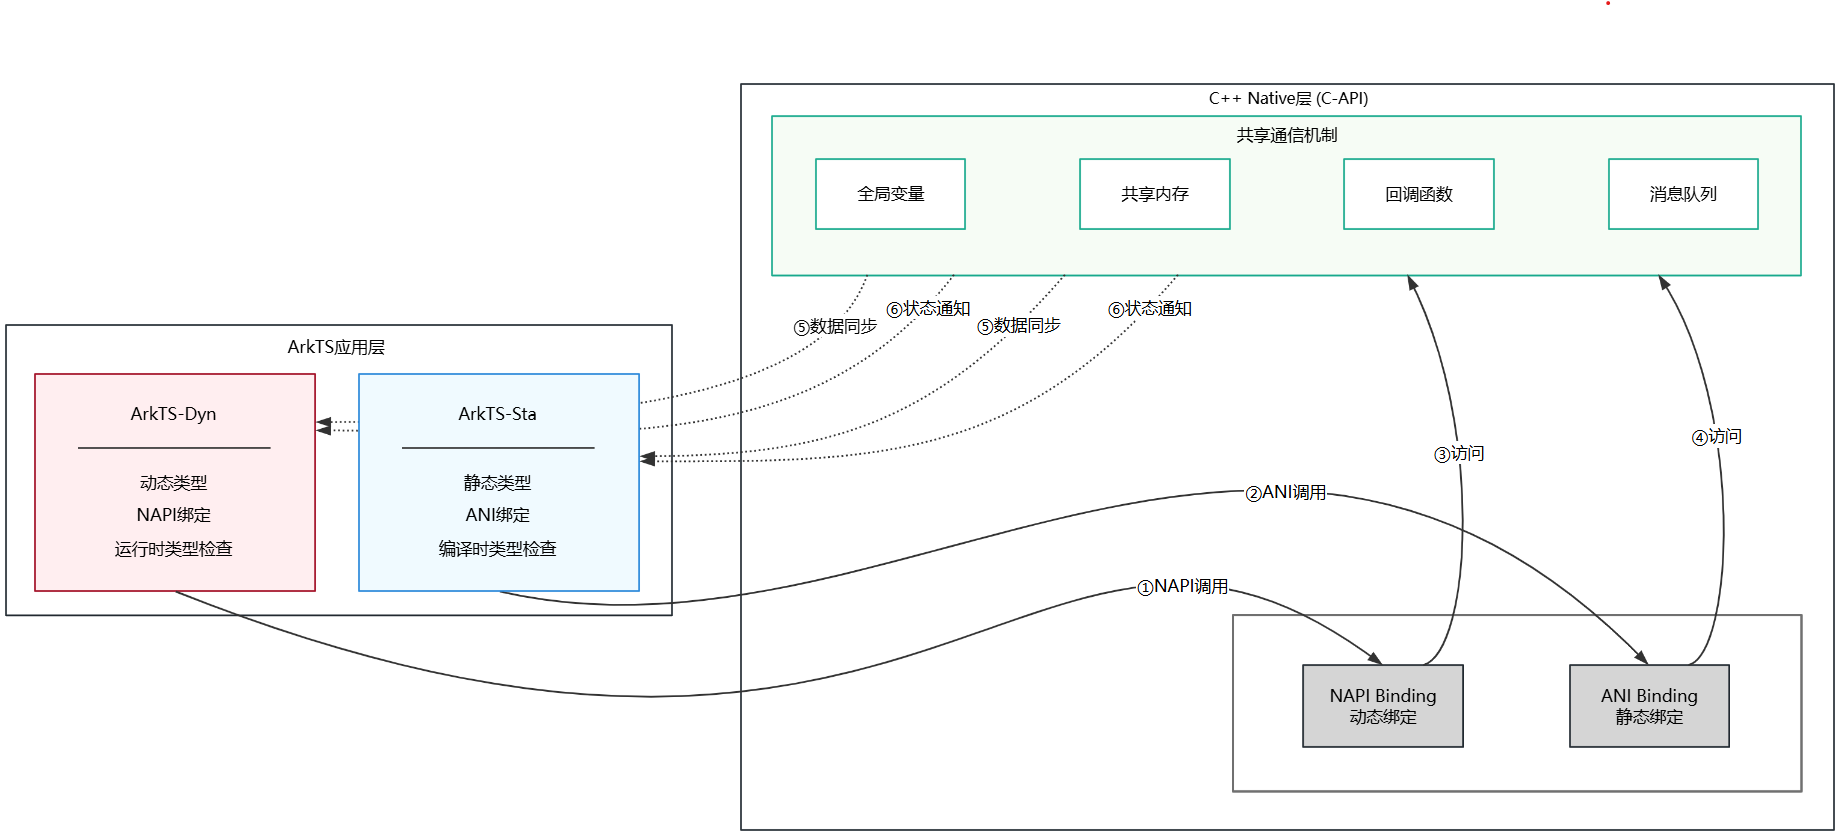
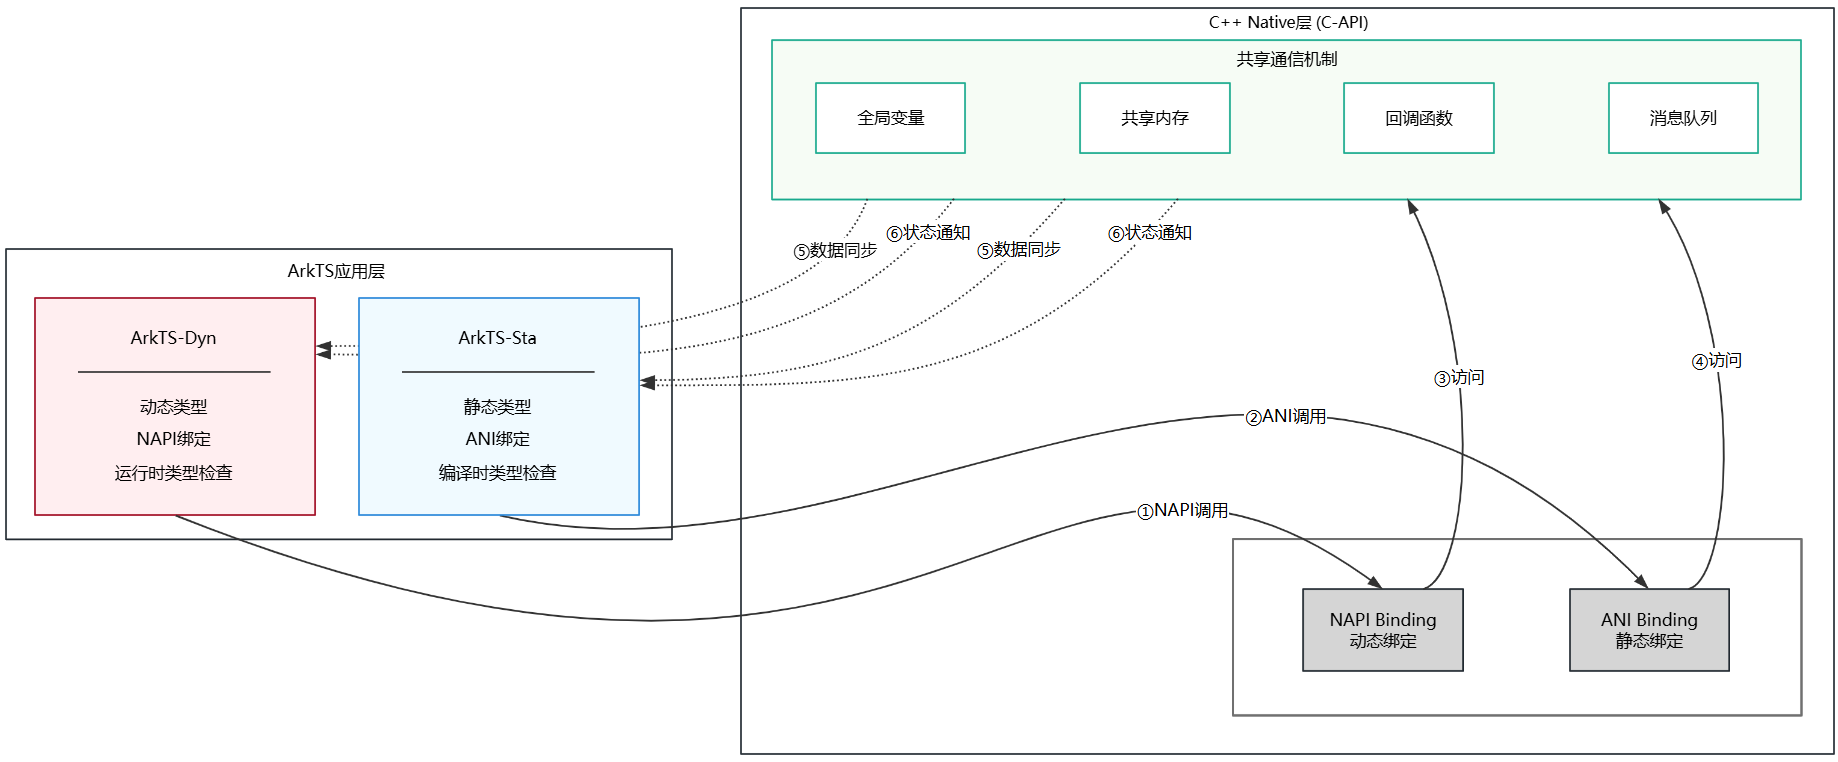
ESValue相关文档修改

diff --git a/zh-cn/application-dev/quick-start/arkts-sta-transformation-case.md b/zh-cn/application-dev/quick-start/arkts-sta-transformation-case.md
@@ -1,5 +1,269 @@
 # ArkTS静态类型改造案例
 
+## 通过ESValue实现静态调用动态
+
+在静态化改造过程中，常会遇到将动态类型对象传入静态环境使用，或在静态环境中执行动态类型操作的情况。针对这类ArkTS-Sta调用ArkTS-Dyn的互操作场景，推荐开发者显式使用ESValue进行“有缝调用”，该方式相较于无缝操作更加稳定且安全。
+
+ESValue是一个动态类型封装类，专用于在静态类型的ArkTS-Sta中操作ArkTS-Dyn动态数据。作为跨域交互的桥接层，它将动态侧的对象包装为可在静态侧安全操作的容器，并提供类型安全的访问接口。通过ESValue，开发者可以执行加载动态模块、读写属性、调用方法及实例化类等操作，同时配合类型判断机制来确保运行时的安全性。
+
+其核心价值在于，为静态类型环境与动态世界交互提供了一套标准化的API。所有动态数据均需通过`wrap`方法封装为ESValue对象；操作时需显式调用`getProperty`、`invoke`等接口，由于返回值同样是ESValue包装对象，最终还需通过`unwrap`或特定类型方法进行解包。这种设计将类型检查从编译期推迟到了运行期，非常适合处理不确定类型的动态数据。
+
+### ESValue支持的操作
+
+| ESValue支持的操作 | 操作功能说明 |
+| :--- | :--- |
+| **对动态对象的包装** | 将数据类型包装为ESValue对象。支持：`boolean`、`string`、`number`、`bigint`、`byte`、`short`、`int`、`long`、`float`、`double` 以及动态引用对象。 |
+| **对动态对象的判断** | 判断并获取包装的具体数据类型。支持：`boolean`、`string`、`number`、`bigint`、`undefined`、`null`、`staticObject`、`ECMAObject`、`object`、`function`、`promise`。 |
+| **对动态对象的解包** | 将ESValue还原为原始数据或对象。支持：`boolean`、`string`、`number`、`bigint`、`undefined`、`null`、`staticObject`、`promise`。 |
+| **对动态对象的比较** | 比较两个ESValue包装的对象是否相同，支持相等与严格相等判断。 |
+| **属性访问与设置** | 检查、获取或设置动态对象的属性。支持获取并遍历对象的 `key`、`value` 及 `entry`，返回结果同样为ESValue包装对象。 |
+| **实例化与方法调用** | 支持对包装的动态对象进行实例化操作，以及对包装的动态方法进行调用与执行。 |
+| **其它接口** | 提供创建动态空对象/空数组、加载动态文件与SDK、以及获取动态全局变量等辅助功能。 |
+
+对于更具体的ESValue接口使用方法以及示例见：[ESValue接口文档](https://gitcode.com/openharmony/arkcompiler_runtime_core/blob/master/static_core/plugins/ets/runtime/interop_js/docs/ESValueApi_cn.md)。
+
+### ESValue使用示例
+
+**利用ESValue实例化动态类并操作属性和方法**
+
+以下示例演示如何使用ESValue在ArkTS-Sta中实例化ArkTS-Dyn定义的类，并对其属性进行读写和调用其方法。
+
+```ts
+//  ========== 动态文件DynamicModule.ets ==========
+export class Person {
+    name: string;
+    age: number;
+    
+    constructor(name: string, age: number) {
+        this.name = name;
+        this.age = age;
+    }
+    
+    greet(): string {
+        return `Hello, I'm ${this.name}, ${this.age} years old.`;
+    }
+    
+    setAge(newAge: number): void {
+        this.age = newAge;
+    }
+    
+    getAge(): number {
+        return this.age;
+    }
+}
+
+//  ========== 静态文件StaticModule.ets ==========
+'use static'
+
+function demoPersonClass(): void {
+    // 加载动态模块，入参为动态模块的路径
+    let module = ESValue.load('dynhar/src/main/ets/components/DynamicModule');  
+    // 获取Person类
+    let PersonClass = module.getProperty('Person');
+    
+    // 实例化Person类，传入构造函数的参数需要为ESValue
+    let person = PersonClass.instantiate(
+        ESValue.wrapString('Alice'),
+        ESValue.wrapNumber(25)
+    );
+    
+    // 获取属性值
+    let name = person.getProperty('name');
+    let age = person.getProperty('age');
+    console.info(`Name: ${name.toString()}`);  // Name: Alice
+    console.info(`Age: ${age.toNumber()}`);     // Age: 25
+    
+    // 设置属性值
+    person.setProperty('name', ESValue.wrapString('Bob'));
+    person.setProperty('age', ESValue.wrapNumber(30));
+    
+    // 验证属性修改
+    let updatedName = person.getProperty('name');
+    console.info(`Updated Name: ${updatedName.toString()}`);  // Updated Name: Bob
+    
+    // 调用无参方法
+    let greetResult = person.invokeMethod('greet');
+    console.info(greetResult.toString());  // Hello, I'm Bob, 30 years old.
+    
+    // 调用带参数方法
+    person.invokeMethod('setAge', ESValue.wrapNumber(35));
+    let newAge = person.invokeMethod('getAge');
+    console.info(`New Age: ${newAge.toNumber()}`);  // New Age: 35
+    
+    // 检查属性是否存在
+    let hasName = person.hasProperty('name');      // true
+    let hasSalary = person.hasProperty('salary');   // false
+    
+    // 检查实例类型
+    let isInstanceOf = person.instanceOf(PersonClass);  // true
+    console.info(`Is instance of Person: ${isInstanceOf}`);
+}
+```
+
+**利用ESValue处理异步Promise**
+
+以下示例演示如何使用ESValue在ArkTS-Sta中处理ArkTS-Dyn中的Promise操作。
+
+```ts
+//  ========== 动态文件 DynamicModule.ets ==========
+export function fetchUserData(id: number): Promise<{ name: string; score: number }> {
+    return new Promise((resolve) => {
+        setTimeout(() => {
+            resolve({ name: `User${id}`, score: id * 100 });
+        }, 100);
+    });
+}
+
+export function processItems(items: number[]): Promise<number[]> {
+    return Promise.all(items.map(x => Promise.resolve(x * 2)));
+}
+
+//  ========== 静态文件 StaticModule.ets ==========
+'use static'
+
+async function handleAsyncOperations(): Promise<void> {
+    let module = ESValue.load('har/src/main/ets/components/DynamicModule');
+    
+    // 调用返回Promise的函数
+    let fetchFunc = module.getProperty('fetchUserData');
+    let promiseVal = fetchFunc.invoke(ESValue.wrapNumber(42));
+    
+    // 检查是否为Promise
+    if (promiseVal.isPromise()) {
+        // 等待Promise完成
+        let result = await promiseVal.toPromise();
+        let name = result.getProperty('name').toString();
+        let score = result.getProperty('score').toNumber();
+        console.info(`User: ${name}, Score: ${score}`);
+    }
+    
+    // 处理Promise.all场景
+    let processFunc = module.getProperty('processItems');
+    let itemsArr = ESValue.instantiateEmptyArray();
+    itemsArr.invokeMethod('push', ESValue.wrapNumber(1));
+    itemsArr.invokeMethod('push', ESValue.wrapNumber(2));
+    itemsArr.invokeMethod('push', ESValue.wrapNumber(3));
+    
+    let allPromise = processFunc.invoke(itemsArr);
+    let allResult = await allPromise.toPromise();
+    
+    // 遍历结果数组
+    for (const item of allResult) {
+        console.info(`Processed: ${item.toNumber()}`);
+    }
+}
+```
+
+## 通过STValue实现动态调用静态
+
+在ArkTS应用的静态化改造中，同样会面临将静态对象跨域传递至动态环境，或在ArkTS-Dyn中执行静态操作的需求。面对此类ArkTS-Dyn调用ArkTS-Sta的互操作场景，强烈建议开发者采用显式引入STValue的有缝调用模式，以获取比隐式无缝操作更高的系统稳定性和安全边界。
+
+作为与ESValue对标的封装类，STValue专门提供了一套在ArkTS-Dyn环境中操作ArkTS-Sta静态数据的标准化接口。STValue通过持有对ArkTS-Sta对象的底层引用，构建起跨运行时的安全桥梁，从而确保ArkTS-Dyn能够安全可靠地访问并操控静态运行环境中的核心数据。
+
+### STValue支持的操作
+
+| STValue支持的操作| 操作功能说明 |
+| :--- | :--- |
+| **对静态对象的包装** | 提供`wrap`接口将ArkTS-Dyn值转换为ArkTS-Sta值并封装。支持：`boolean`、`char`、`byte`、`short`、`int`、`long`、`float`、`double`、`number`、`string`、`bigint` 以及静态引用对象。 |
+| **对静态对象的判断** | 提供`check`接口检查包装类型（支持`string`、`bigint`、`undefined`、`null`），并提供`objectInstanceOf`接口判断对象是否属于指定类型。 |
+| **对静态对象的解包** | 提供`unwrap`接口将STValue反解为ArkTS-Dyn值。支持解包获取 `boolean`、`number`、`string`、`bigint` 基本类型值及引用类型。 |
+| **对静态对象的比较** | 提供比较接口，支持判断两个STValue包装的静态对象（包括基本类型和引用类型）是否相等。 |
+| **属性访问与设置** | 通过`accessor`接口支持获取和设置类静态字段、实例对象属性、固定数组元素、动态数组元素以及命名空间变量。 |
+| **实例化与方法调用** | 通过`instance`接口提供类实例化操作（支持查找类、命名空间、枚举及获取父类）；通过`invoke`接口提供方法动态调用（支持实例方法、类静态方法和命名空间函数）。 |
+| **其它接口** | 提供查找类和命名空间、动态数组的 length/push/pop 操作、获取对象类型信息和固定数组长度等功能。配合SType类型枚举和Mangling签名规则实现跨运行时的类型安全调用。 |
+
+对于更具体的STValue接口使用方法以及示例见：[STValue接口文档](https://gitcode.com/openharmony/arkcompiler_runtime_core/blob/master/static_core/plugins/ets/runtime/interop_js/docs/stvalue_cn.md)。
+
+### STValue使用示例
+
+以下示例演示如何使用STValue在ArkTS-Dyn中实例化ArkTS-Sta定义的类，并对其属性进行读写和调用其方法。
+```typescript
+//  ========== 静态文件StaticModule.ets ==========
+export class Counter {
+    name: string;
+    count: int = 0;
+
+    constructor(name: string) {
+        this.name = name;
+    }
+
+    static increment(value: int): int {
+        return value + 1;
+    }
+
+    static calculateSum(a: int, b: int): int {
+        return a + b;
+    }
+
+    getCount(): int {
+        return this.count;
+    }
+
+    reset(): void {
+        this.count = 0;
+    }
+}
+
+//  ========== 动态文件DynamicModule.ets ==========
+import {STValue, SType} from "[email redacted]"; // STValue配置可参考STValue接口文档
+
+// 查找静态类定义，传入对应静态文件的路径
+let counterCls = STValue.findClass('stahar.src.main.ets.components.StaticModule.Counter'); 
+
+// 实例化静态对象
+// 使用构造函数: constructor(name: string)
+// 签名'C{std.core.String}:'表示传入String参数，无返回值
+let counterObj = counterCls.classInstantiate('C{std.core.String}:', [
+    STValue.wrapString('MyCounter')
+]);
+
+// 获取对象的属性值,objectGetProperty获取的是STValue包装后的值，所以需要进行unwrap操作进行解包
+let name = counterObj.objectGetProperty('name', SType.REFERENCE).unwrapToString();
+let count = counterObj.objectGetProperty('count', SType.INT).unwrapToNumber();
+
+// 调用静态方法increment修改count值
+// 静态方法: static increment(value: int): int
+// 签名'i:i'表示传入int参数，返回int
+let incrementResult = counterCls.classInvokeStaticMethod('increment', 'i:i', [
+    STValue.wrapInt(count)
+]);
+let newCount = incrementResult.unwrapToNumber();
+
+// 重新设置实例对象的属性值
+counterObj.objectSetProperty('count', STValue.wrapInt(newCount), SType.INT);
+
+// 再次获取属性值验证设置结果
+let verifyCount = counterObj.objectGetProperty('count', SType.INT).unwrapToNumber();
+
+// 再次调用静态方法increment增加count
+let incrementResult2 = counterCls.classInvokeStaticMethod('increment', 'i:i', [
+    STValue.wrapInt(verifyCount)
+]);
+let newCount2 = incrementResult2.unwrapToNumber();
+console.info(`  原值: ${verifyCount}, 新值: ${newCount2}`);  // 输出: 原值: 1, 新值: 2
+
+// 设置新的count值
+counterObj.objectSetProperty('count', STValue.wrapInt(newCount2), SType.INT);
+
+// 获取最终属性值并调用静态方法calculateSum计算总和
+let finalCount = counterObj.objectGetProperty('count', SType.INT).unwrapToNumber();
+let baseValue = 10;
+
+// 静态方法: static calculateSum(a: int, b: int): int
+// 签名'ii:i'表示传入两个int参数，返回int
+let sumResult = counterCls.classInvokeStaticMethod('calculateSum', 'ii:i', [
+    STValue.wrapInt(finalCount),
+    STValue.wrapInt(baseValue)
+]);
+let totalSum = sumResult.unwrapToNumber();
+
+let finalName = counterObj.objectGetProperty('name', SType.REFERENCE).unwrapToString();
+let finalCountValue = counterObj.objectGetProperty('count', SType.INT).unwrapToNumber();
+console.info(`对象属性: name=${finalName}, count=${finalCountValue}`);  // 输出: name=MyCounter, count=2
+console.info(`计算结果: sum=${totalSum}`);  // 输出: sum=12
+```
+
+
 ## 大批量动态类型对象高效地转换为静态类型对象
 
 **场景描述**
@@ -122,9 +386,6 @@ function objectAssign(from: string, to: ToType): void {
 }
 ```
 
-## ESValue基础用法
-详见：[ESValue的基础用法](https://gitcode.com/openharmony/arkcompiler_runtime_core/blob/master/static_core/plugins/ets/runtime/interop_js/docs/ESValueApi_cn.md)
-
 ## 动态enum传入静态中如何使用
 ```TS
 // ========== 动态文件 DynamicModule.ets ==========
@@ -156,19 +417,20 @@ function handleProcessStatus(statusValue: Any): void {
   // 4. 使用switch进行分支处理
   switch (statusValue) {
     case idleStatus:
-      console.log("当前状态：空闲");
+      console.info("当前状态：空闲");
       break;
     case runningStatus:
-      console.log("当前状态：运行中");
+      console.info("当前状态：运行中");
       break;
     default:
-      console.log("未知状态");
+      console.info("未知状态");
       break;
   }
 }
 
 // 动态中使用静态enum，正常import使用即可。
 ```
+
 ## 动态Record传入静态中如何使用
 动态语言中Record是类型，静态语言中是类。跨语言传递时，运行时实际得到的是动态语言中的普通对象(plain object)，而非Record类。
 ```TS
@@ -194,9 +456,9 @@ function transferToSta(dataRecord: Any): void {
   //2:静态中遍历动态record
   for (const d of dataRecordDyna.keys()) {
     //3:打印动态record的key值
-    console.log("dataRecordDyna keys:" + d.toString());
+    console.info("dataRecordDyna keys:" + d.toString());
     //4:打印动态record中的value
-    console.log("dataRecordDyna value:" + dataRecordDyna.getProperty(d.toString()).toString());
+    console.info("dataRecordDyna value:" + dataRecordDyna.getProperty(d.toString()).toString());
   }
 }
 
@@ -252,7 +514,7 @@ function processRecord(): void {
 
   // ✗ 动态中无法对静态record进行遍历，下面是错误写法
   // Object.entries(recordSta).forEach((key, value) => {
-  //   console.log(key, value);
+  //   console.info(key, value);
   // });
   processRecordValue(value);
 }
@@ -262,7 +524,7 @@ function processRecord(): void {
  * @param value Record中的某个值
  */
 export function processRecordValue(value: string): void {
-  console.log("processRecordValue:" + value);
+  console.info("processRecordValue:" + value);
 }
 ```
 

diff --git a/zh-cn/application-dev/quick-start/arkts-sta-migration-questions.md b/zh-cn/application-dev/quick-start/arkts-sta-migration-questions.md
@@ -148,3 +148,20 @@ export function createDataParser(): void {
 > **说明：** 
 >
 > 在原有工程项目中增加`arkTSVersion`字段，设置值为`1.2`即可启用ArkTS静态类型支持。
+
+## DevEco Studio如何使用debug功能进行调试
+
+DevEco Studio使用debug功能需要手机切换到debug模式配合。 
+
+**打开手机debug模式：**
+```shell
+hdc shell param set persist.ark.enableDebugMode true
+hdc shell reboot
+```
+
+**关闭手机debug模式：**
+
+```shell
+hdc shell param set persist.ark.enableDebugMode false
+hdc shell reboot
+```

diff --git a/zh-cn/application-dev/quick-start/arkts-sta-user-guide.md b/zh-cn/application-dev/quick-start/arkts-sta-user-guide.md
@@ -74,7 +74,9 @@ ArkTS静态类型通过严格的类型限制和低运行时开销设计，显著
 - 了解builtin的语法和规则变更：[builtin规则变更](./arkts-dyn-to-sta-builtin-rules.md)。
 - 了解ArkUI的语法和接口变更：[从ArkTS-Dyn到ArkTS-Sta的UI语法规则适配](../ui/arkts-dyn-sta-ui-rules.md)。
 - 了解SDK的语法和规则变更：[SDK规则变更](./arkts-dyn-to-sta-sdk-rules.md)。
-- 了解ArkTS-Sta的应用迁移改造：[ArkTS新增静态类型及应用迁移改造概述](./arkts-sta-additions-application-migration.md)。
+- 了解ArkTS-Sta的应用迁移改造：[ArkTS新增静态类型及应用迁移改造概述](./arkts-sta-additions-application-migration.md)。 
+- 了解ArkTS-Sta的类型改造示例：[ArkTS静态类型改造案例](./arkts-sta-transformation-case.md)。
+- 了解ArkTS-Sta的应用改造示例：[ArkTS静态类型迁移改造案例](./arkts-sta-migration-case.md)。
 
 ## ArkTS-Sta与ArkTS-Dyn文件区分方式
 